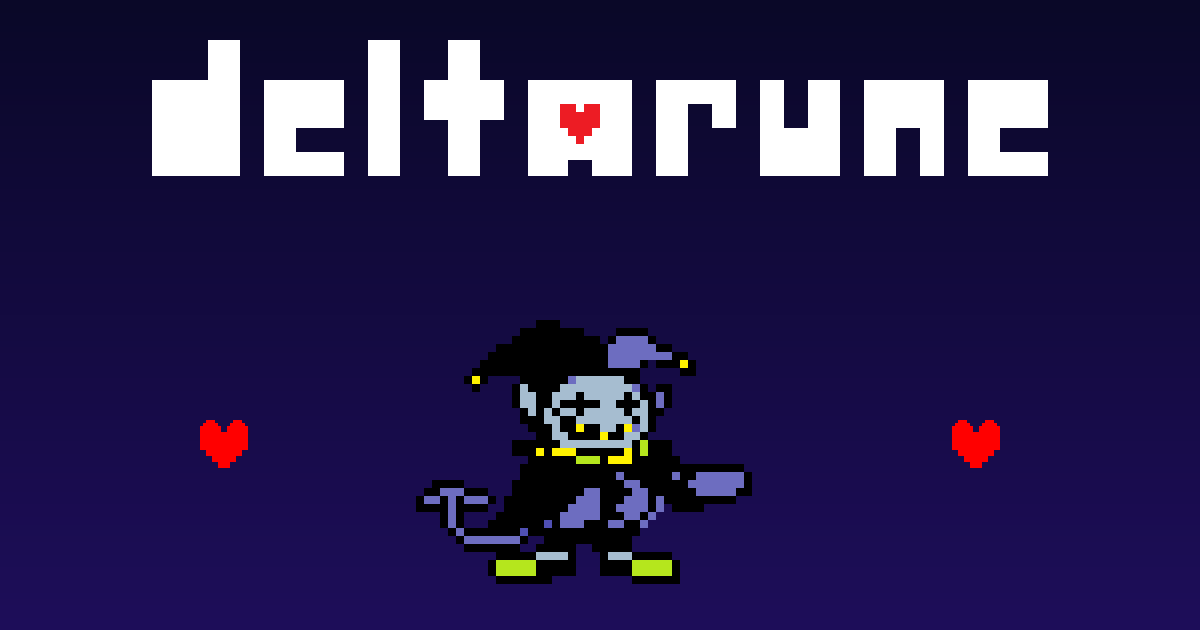
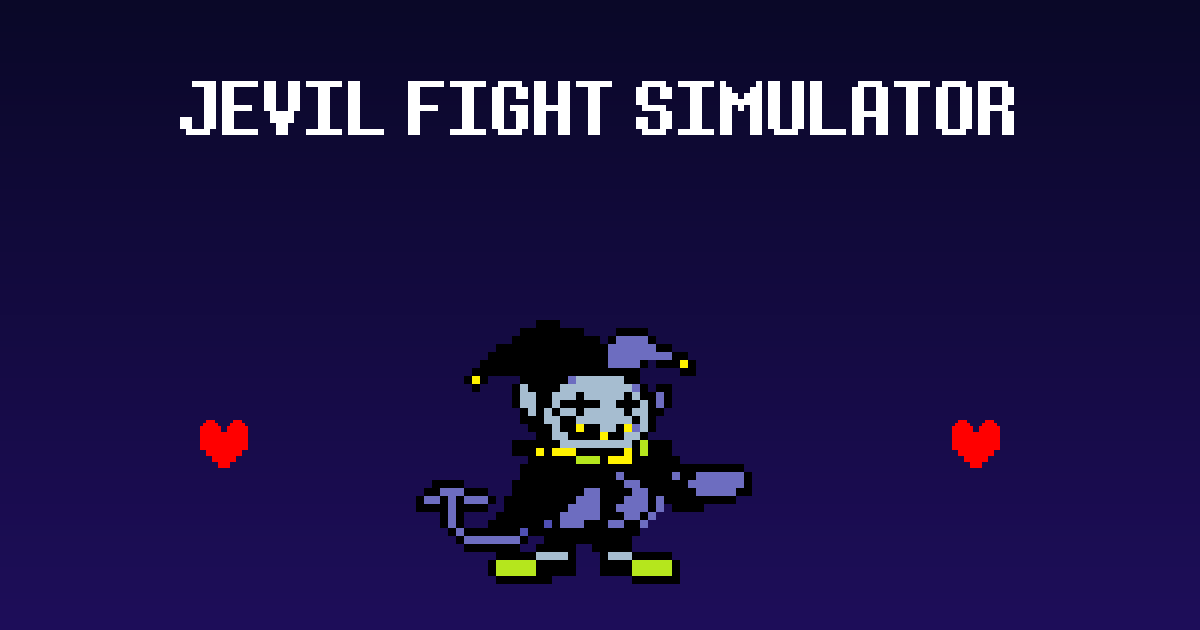
Remove the drawn screen borders; title says JEVIL FIGHT SIMULATOR
The PC game data has no border images (DELTARUNE only draws them on
Switch and PlayStation), so the borders drawn in code are removed
rather than replaced with made-up art. The title screen and the link
preview image show "JEVIL FIGHT SIMULATOR" instead of the DELTARUNE logo.

Changed region(s): [[0.1233, 0.0603, 0.8942, 0.3016]]

diff --git a/src/screens/title.js b/src/screens/title.js
@@ -4,12 +4,13 @@
 import {
   G, global, Instance, defineObject, defineScript, S, instance_create, instance_destroy, objectExists,
   draw_sprite_ext, draw_set_color, draw_set_font, draw_set_alpha, draw_rectangle, draw_text, controls,
+  draw_set_halign, draw_text_transformed, fa_center, fa_left,
 } from '../runtime/gm.js';
 import { snd_init, snd_play, mus_loop_ext, mus_volume, mus_stop } from '../runtime/audio.js';
 import { startBattle } from '../battle/setup.js';
 import { startPractice, PRACTICE_HP } from '../debug/sandbox.js';
 import { gotoRoom, fadeOut, centerText } from './common.js';
-import { saveSettings, applyVolume, BORDERS } from '../settings.js';
+import { saveSettings, applyVolume } from '../settings.js';
 import { openControls, keyName } from './controls.js';
 import './gameover.js';
 import './ending.js';
@@ -45,11 +46,12 @@ class Title extends Instance {
   draw() {
     const t = this.t;
     const a = Math.min(1, t / 30);
-    draw_sprite_ext('IMAGE_LOGO', 0, 320 - 224, 34, 2, 2, 0, 0xffffff, a);
-    draw_set_font('fnt_main');
-    draw_set_color(0x808080);
+    draw_set_font('fnt_mainbig');
+    draw_set_color(0xffffff);
     draw_set_alpha(a);
-    centerText(320, 110, 'JEVIL  FIGHT  SIMULATOR');
+    draw_set_halign(fa_center);
+    draw_text_transformed(320, 40, 'JEVIL FIGHT SIMULATOR', 2, 2, 0);
+    draw_set_halign(fa_left);
     draw_set_alpha(1);
     const bob = Math.sin(t / 12) * 6;
     draw_sprite_ext('spr_joker_dance', this.image_index, 320, 215 + bob, 3, 3, 0, 0xffffff, a);
@@ -144,14 +146,6 @@ function setVolume(v) {
   snd_play('snd_select');
 }
 
-// The screen border (see src/border.js); the layout changes, so the page is re-fitted.
-function setBorder(dir) {
-  const i = BORDERS.indexOf(G.settings.border);
-  G.settings.border = BORDERS[(i + dir + BORDERS.length) % BORDERS.length];
-  saveSettings();
-  dispatchEvent(new Event('resize'));
-}
-
 function optionsMenu(music, cur = 0, panel = null) {
   panel = panel || instance_create(0, 0, 'obj_sim_panel');
   panel.title = 'OPTIONS';
@@ -165,25 +159,23 @@ function optionsMenu(music, cur = 0, panel = null) {
   };
   menu.setup([
     () => 'VOLUME: < ' + Math.round(G.settings.volume * 100) + '% >',
-    () => 'BORDER: < ' + G.settings.border + ' >',
     () => 'EASY MODE: ' + (G.settings.easy ? 'ON' : 'OFF'),
     () => 'INTRO: ' + (G.settings.intro ? 'ON' : 'OFF'),
     () => 'SIMPLIFY VFX: ' + (G.settings.simplify ? 'ON' : 'OFF'),
     'CONTROLS',
     'BACK',
   ], (i, m) => {
-    if (i == 6) return back(m);
-    if (i == 5) {
+    if (i == 5) return back(m);
+    if (i == 4) {
       instance_destroy(m);
       panel.title = 'CONTROLS';
-      openControls(() => optionsMenu(music, 5, panel));
+      openControls(() => optionsMenu(music, 4, panel));
       return;
     }
     if (i == 0) setVolume(G.settings.volume >= 1 ? 0 : G.settings.volume + 0.1);
-    if (i == 1) setBorder(1);
-    if (i == 2) G.settings.easy = !G.settings.easy;
-    if (i == 3) G.settings.intro = !G.settings.intro;
-    if (i == 4) {
+    if (i == 1) G.settings.easy = !G.settings.easy;
+    if (i == 2) G.settings.intro = !G.settings.intro;
+    if (i == 3) {
       G.settings.simplify = !G.settings.simplify;
       global.flag[8] = G.settings.simplify ? 1 : 0;
     }
@@ -193,10 +185,7 @@ function optionsMenu(music, cur = 0, panel = null) {
   }, 'fnt_mainbig', 36);
   menu.cur = cur;
   menu.onBack = back;
-  menu.onAdjust = (i, dir) => {
-    if (i == 0) setVolume(G.settings.volume + dir * 0.1);
-    if (i == 1) setBorder(dir);
-  };
+  menu.onAdjust = (i, dir) => { if (i == 0) setVolume(G.settings.volume + dir * 0.1); };
 }
 defineScript('startTitle', startTitle);
 

diff --git a/index.html b/index.html
@@ -58,10 +58,6 @@
   body.touch #stage { align-items: flex-start; padding-top: max(8px, env(safe-area-inset-top)); box-sizing: border-box; }
   @media (orientation: landscape) { body.touch #stage { align-items: center; padding-top: 0; } }
   canvas { image-rendering: pixelated; image-rendering: crisp-edges; display: block; touch-action: none; }
-  #screen { position: relative; flex: none; }
-  #screen canvas { position: absolute; top: 0; left: 0; }
-  #border { width: 100%; height: 100%; }
-  #border[hidden] { display: none; }
   .hint { position: absolute; top: calc(100vh - 28px); left: 0; right: 0; text-align: center; font-size: 12px; color: #666; }
   body.touch .hint { display: none; }
   #about { max-width: 720px; margin: 0 auto; padding: 48px 16px 64px; }
@@ -92,10 +88,7 @@
 </head>
 <body>
 <main id="stage">
-  <div id="screen">
-    <canvas id="border" width="960" height="540" hidden></canvas>
-    <canvas id="game" width="640" height="480" aria-label="Jevil Fight Simulator game"></canvas>
-  </div>
+  <canvas id="game" width="640" height="480" aria-label="Jevil Fight Simulator game"></canvas>
   <div class="hint">Scroll down for controls and info</div>
   <div id="soundhint" hidden>🔇 Click or press any key to turn on sound</div>
   <button id="fullscreen" type="button" title="Fullscreen (F)" aria-label="Fullscreen (F)" hidden>
@@ -118,7 +111,7 @@
   <h2>Controls</h2>
   <p><kbd>Z</kbd> or <kbd>Enter</kbd>: confirm &nbsp; <kbd>X</kbd> or <kbd>Shift</kbd>: cancel &nbsp; <kbd>Arrow keys</kbd>: move. On phones, use the on-screen pad and buttons.</p>
   <p><strong>Gamepad:</strong> plug in an Xbox, PlayStation or Switch controller and press a button. <kbd>A</kbd>/<kbd>Cross</kbd>: confirm &nbsp; <kbd>B</kbd>/<kbd>Circle</kbd>: cancel &nbsp; D-pad or left stick: move &nbsp; <kbd>Start</kbd>: confirm. Click the page or press a key once to turn on the sound (browsers require it).</p>
-  <p><strong>Remap the buttons</strong> in OPTIONS &rarr; CONTROLS (keyboard and gamepad). OPTIONS also has the volume and the <strong>screen border</strong> (Card Castle, simple or off), shown around the game on wide screens like in DELTARUNE.</p>
+  <p><strong>Remap the buttons</strong> in OPTIONS &rarr; CONTROLS (keyboard and gamepad). OPTIONS also has the volume.</p>
 
   <h2>Practice mode</h2>
   <p>Choose <strong>PRACTICE</strong> on the title screen (or open <a href="?practice">practice mode</a> directly) to dodge Jevil's 16 attacks in order, Bad Time Simulator style. Lose your whole HP bar and the attack restarts; survive it and you move on to the next one, all the way to the Final Chaos. You can start from any attack and pick 90 HP, 45 HP or 1 HP (no hit).</p>

diff --git a/src/main.js b/src/main.js
@@ -4,7 +4,6 @@ import * as gm from './runtime/gm.js';
 import { G } from './runtime/gm.js';
 import { setupTouch } from './touch.js';
 import { setupFullscreen } from './fullscreen.js';
-import { borderActive, drawBorder } from './border.js';
 import { loadSettings, applyVolume } from './settings.js';
 import './screens/controls.js';
 
@@ -23,31 +22,13 @@ G.debug.enabled = params.has('debug') || params.has('sandbox');
 if (setupTouch(params.has('touch'))) document.body.classList.add('touch');
 setupFullscreen();
 
-const screenBox = document.getElementById('screen');
-const borderCanvas = document.getElementById('border');
-
 function fit() {
   // On portrait touch screens the on-screen controls sit below the game.
   const reserve = document.body.classList.contains('touch') && innerHeight > innerWidth ? 200 : 0;
   const w = document.documentElement.clientWidth, h = innerHeight - reserve;
-  if (borderActive(w, h)) {
-    // 16:9 like DELTARUNE with borders: the game is 1440x1080 of 1920x1080.
-    const s = Math.min(w / 1920, h / 1080);
-    screenBox.style.width = 1920 * s + 'px';
-    screenBox.style.height = 1080 * s + 'px';
-    canvas.style.left = 240 * s + 'px';
-    canvas.style.width = 1440 * s + 'px';
-    canvas.style.height = 1080 * s + 'px';
-    borderCanvas.hidden = false;
-    return;
-  }
-  borderCanvas.hidden = true;
   const s = Math.max(1, Math.floor(Math.min(w / 640, h / 480)));
   const fs = Math.min(w / 640, h / 480);
   const scale = fs >= 1 ? s : fs;
-  screenBox.style.width = 640 * scale + 'px';
-  screenBox.style.height = 480 * scale + 'px';
-  canvas.style.left = '0px';
   canvas.style.width = 640 * scale + 'px';
   canvas.style.height = 480 * scale + 'px';
 }
@@ -78,7 +59,6 @@ function loop() {
       if (!G.paused || G.stepOnce) {
         G.stepOnce = false;
         gm.tick();
-        drawBorder();
       }
       acc -= STEP;
       n++;

diff --git a/src/settings.js b/src/settings.js
@@ -4,7 +4,6 @@ import { setMasterVolume } from './runtime/audio.js';
 
 const SETTINGS_KEY = 'jevil-sim-settings';
 const CONTROLS_KEY = 'jevil-sim-controls';
-export const BORDERS = ['OFF', 'SIMPLE', 'CARD CASTLE'];
 
 function read(key) {
   try { return JSON.parse(localStorage.getItem(key) || 'null'); } catch (e) { return null; }
@@ -14,9 +13,8 @@ function write(key, value) {
 }
 
 export function loadSettings() {
-  const defaults = { simplify: false, intro: true, easy: false, volume: 1, border: 'CARD CASTLE' };
+  const defaults = { simplify: false, intro: true, easy: false, volume: 1 };
   G.settings = { ...defaults, ...(read(SETTINGS_KEY) || {}) };
-  if (!BORDERS.includes(G.settings.border)) G.settings.border = defaults.border;
   setControls(read(CONTROLS_KEY));
 }
 

diff --git a/tools/make_og.py b/tools/make_og.py
@@ -50,8 +50,25 @@ for y in range(H):
     for x in range(W):
         img[(y * W + x) * 4:(y * W + x) * 4 + 4] = bytes((r, g, b, 255))
 
-lw, lh, logo = scaled("IMAGE_LOGO", 4)
-paste(img, W, H, logo, lw, lh, (W - lw) // 2, 40)
+def text_image(s, font="fnt_mainbig"):
+    meta = json.load(open(os.path.join(ROOT, "assets", "fonts.json")))[font]
+    with open(os.path.join(ROOT, "assets", "fonts", font + ".png"), "rb") as f:
+        aw, ah, atlas = read_png(f.read())
+    glyphs = [meta["glyphs"][str(ord(c))] for c in s]
+    tw = sum(g[4] for g in glyphs)
+    th = max(g[3] for g in glyphs)
+    out = bytearray(tw * th * 4)
+    cx = 0
+    for gx, gy, gw, gh, shift, offset in glyphs:
+        if gw:
+            paste(out, tw, th, crop(atlas, aw, gx, gy, gw, gh), gw, gh, cx + offset, 0)
+        cx += shift
+    return tw, th, out
+
+
+tw, th, title = text_image("JEVIL FIGHT SIMULATOR")
+k = 3
+paste(img, W, H, scale_nearest(title, tw, th, tw * k, th * k), tw * k, th * k, (W - tw * k) // 2, 60)
 jw, jh, jevil = scaled("spr_joker_dance", 8, 0)
 paste(img, W, H, jevil, jw, jh, (W - jw) // 2, 200)
 hw, hh, heart = scaled("spr_heart", 3)

diff --git a/README.md b/README.md
@@ -11,7 +11,7 @@ Play the Jevil boss fight from **DELTARUNE Chapter 1** for free in your browser,
 - The battle logic is ported from the original game, so it plays like the real fight.
 - **Practice mode** (Bad Time Simulator style): dodge the 16 attacks in order; lose your HP bar and the attack restarts, survive it and you move on. Pick the starting attack and 90 / 45 / 1 HP. Direct link: [`?practice`](https://bautipro67.github.io/jevil-fight-simulator/?practice).
 - **Easy Mode** (title screen → OPTIONS) halves the damage you take.
-- **OPTIONS**: volume, screen border (Card Castle / simple / off, on wide screens), and **CONTROLS** to remap every button on keyboard and gamepad. Options are remembered in the browser.
+- **OPTIONS**: volume and **CONTROLS** to remap every button on keyboard and gamepad. Options are remembered in the browser.
 - **Sandbox mode** to repeat any attack freely: [`?sandbox&attack=0`](https://bautipro67.github.io/jevil-fight-simulator/?sandbox&attack=0) (`[` / `]` switch attacks, `I` invincibility).
 - Touch controls on phones and tablets.
 
